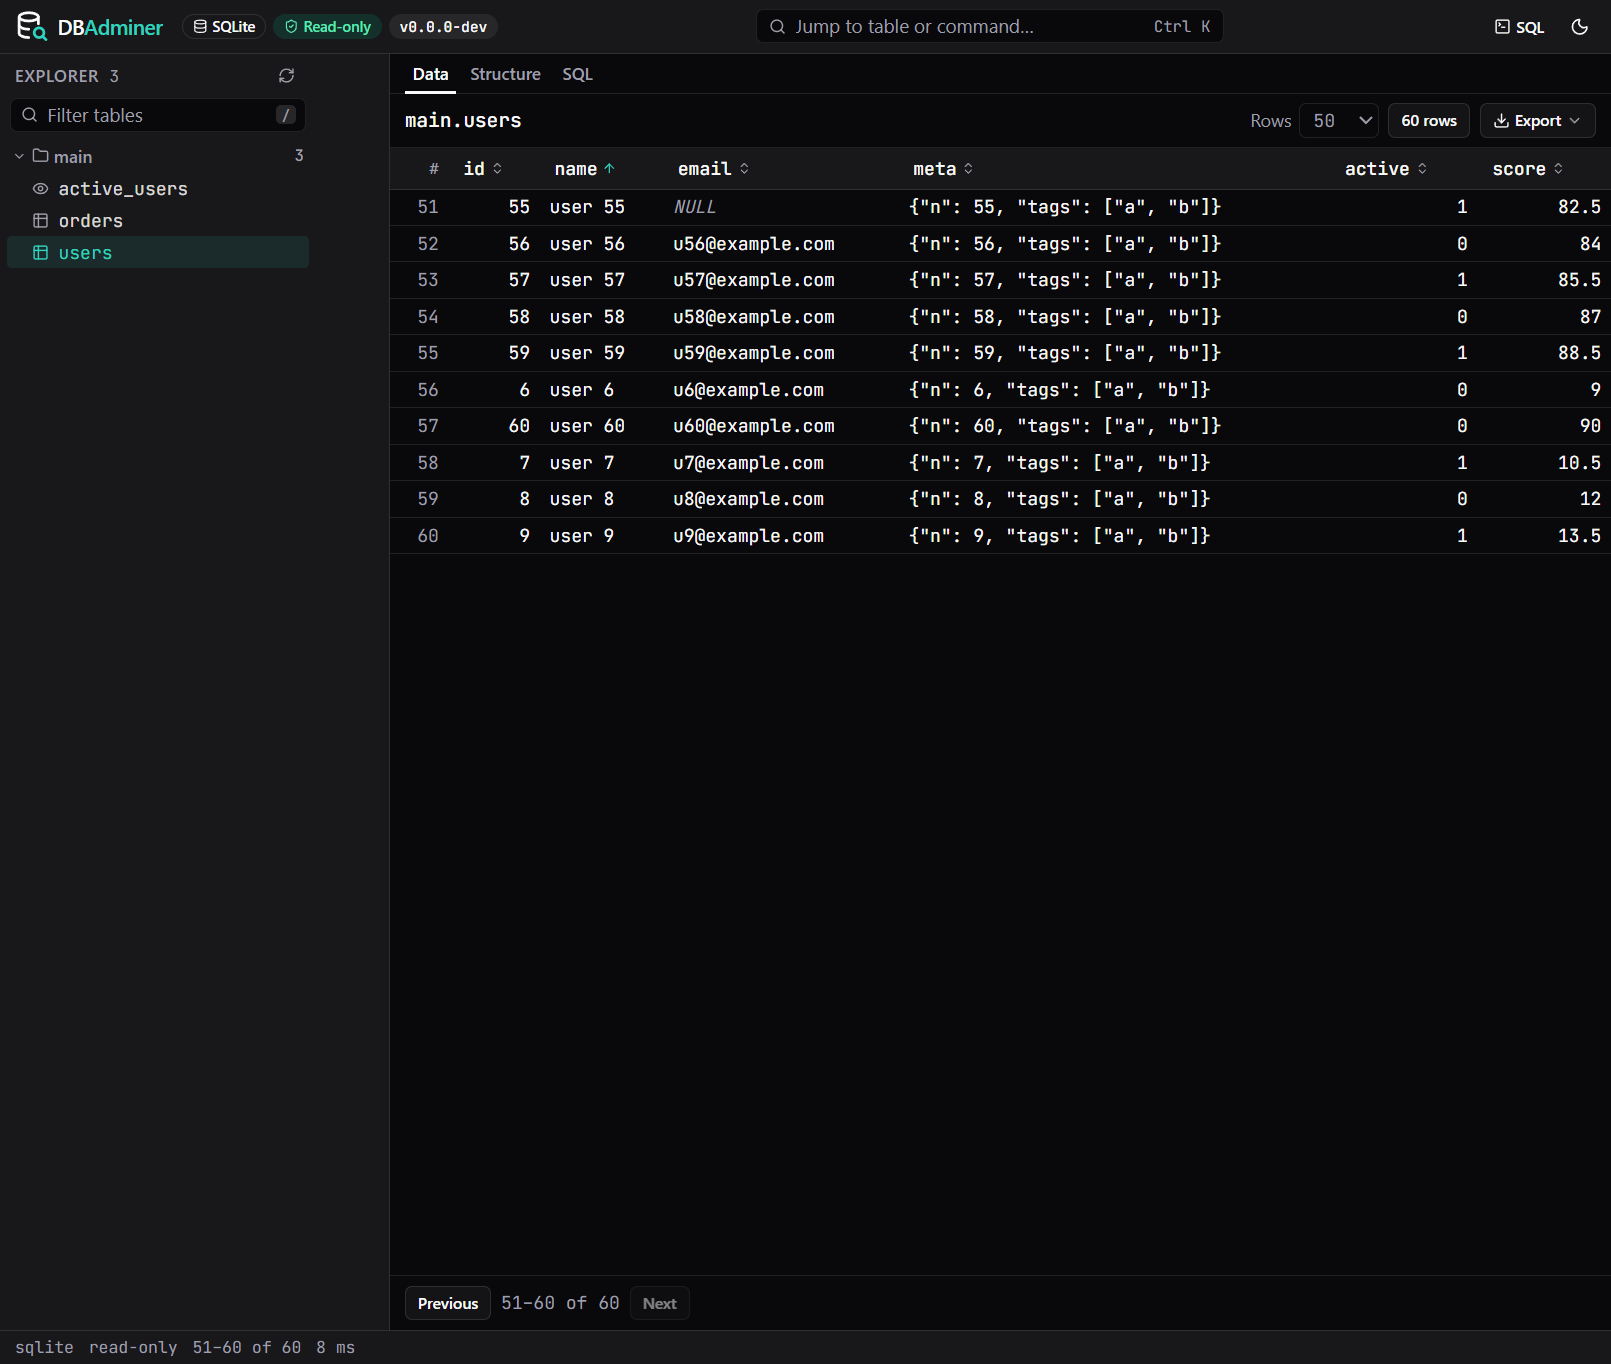
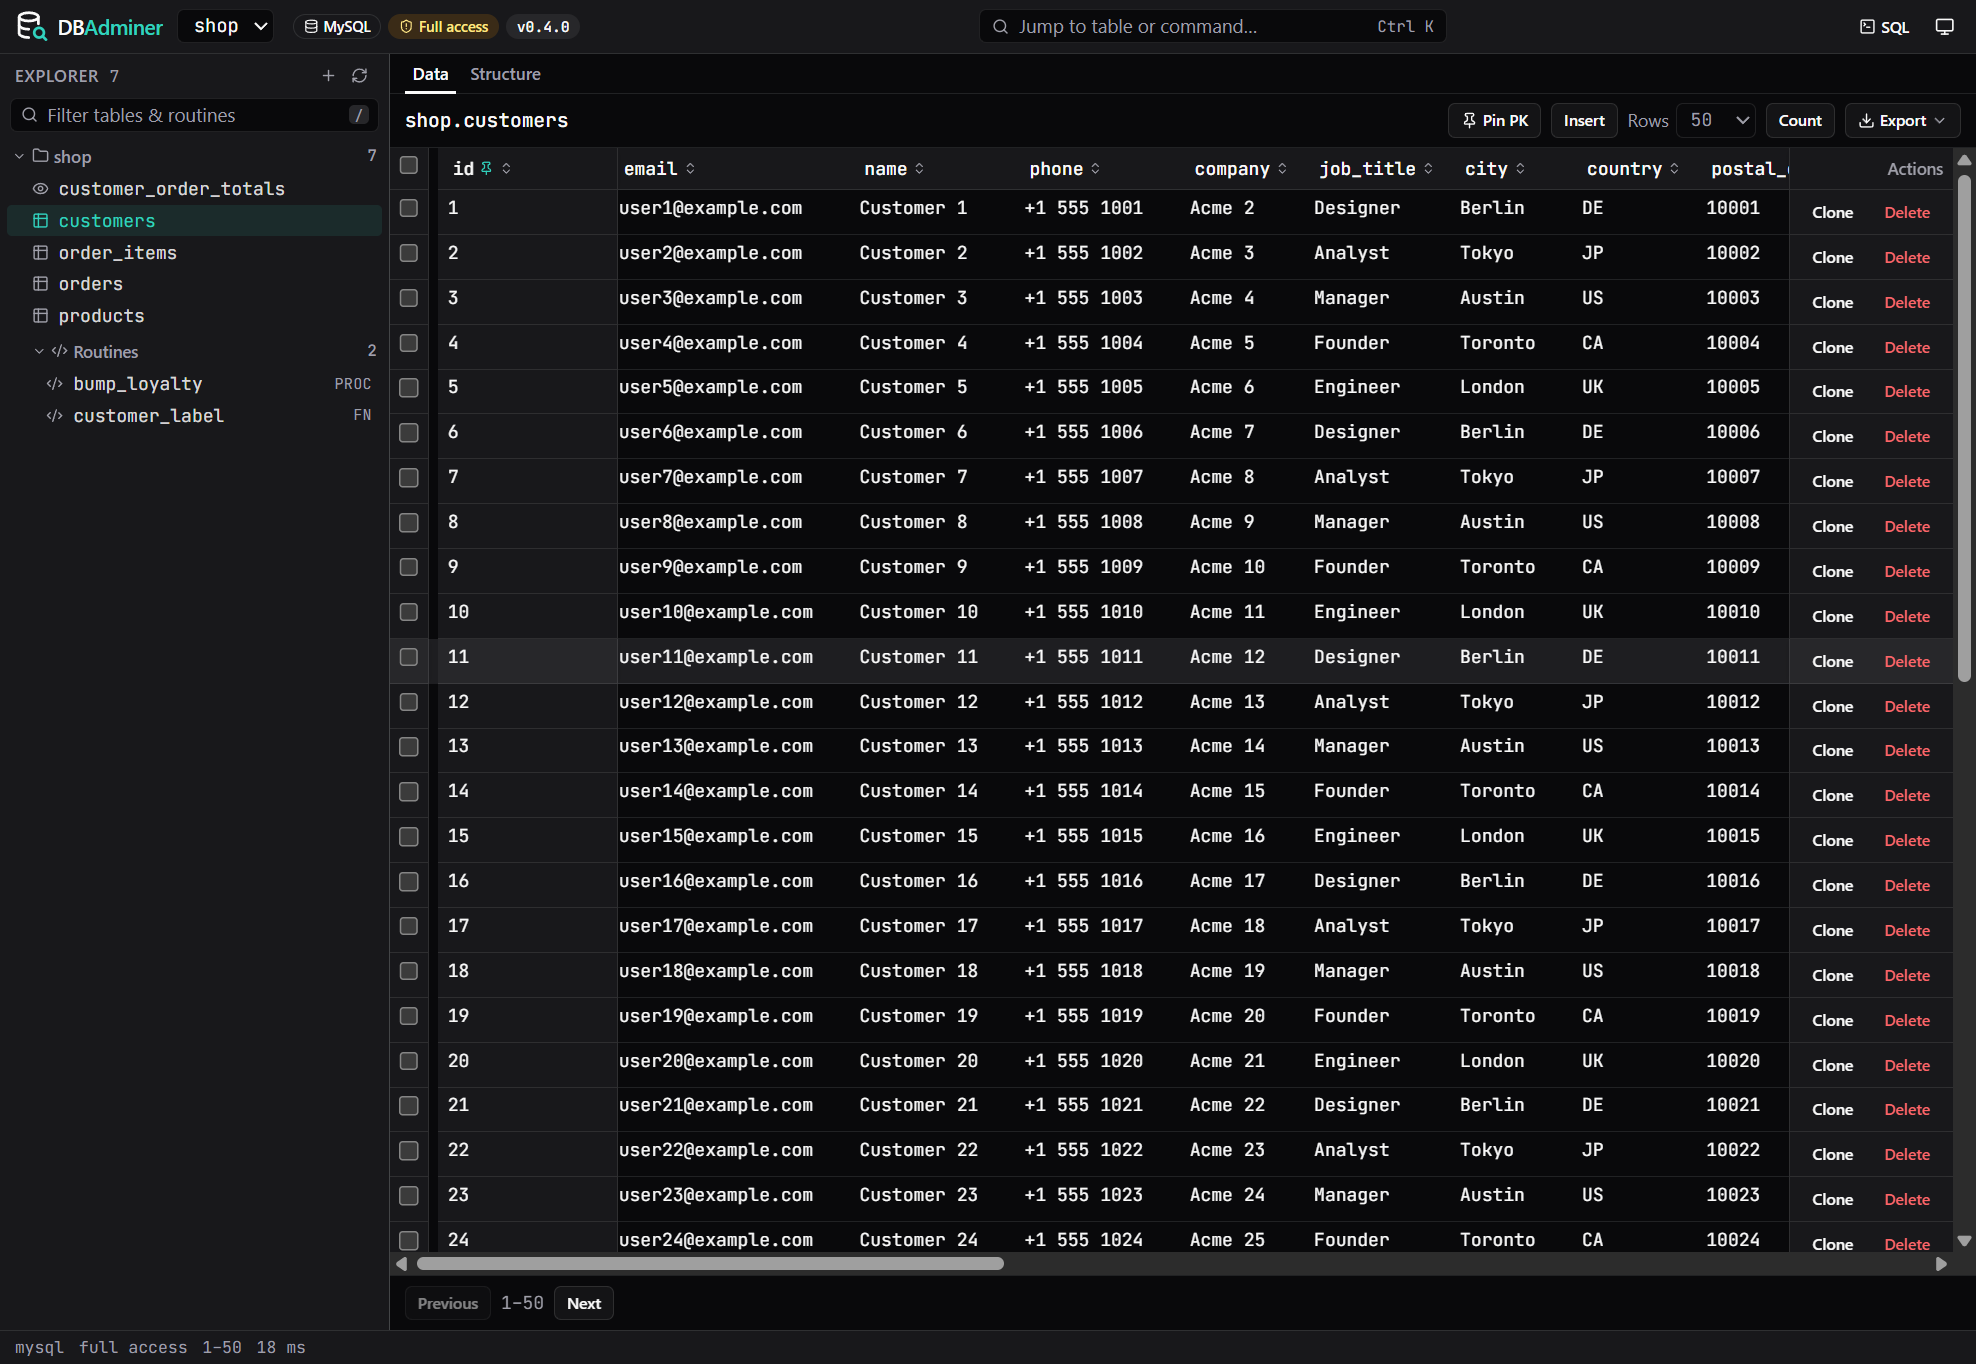
Update README with enhanced screenshot description and replace binary image. The screenshot now specifically illustrates browsing MySQL shop.customers with tables and routines in the explorer.

diff --git a/README.md b/README.md
@@ -2,7 +2,7 @@
 
 ![DBAdminer](docs/logo.svg)
 
-![DBAdminer browsing a table](docs/screenshot.png)
+![DBAdminer browsing MySQL shop.customers with tables and routines in the explorer](docs/screenshot.png)
 
 DBAdminer is a database explorer for Go. It starts read-only. Download a binary and open the UI, embed it next to a `*sql.DB` you already have, or pull the Docker image. The library module imports only the standard library. `cmd/dbadminer` is its own module, so importing the library does not pull in database drivers. Handler tests use SQLite. The module requires Go 1.26 or newer.
 
